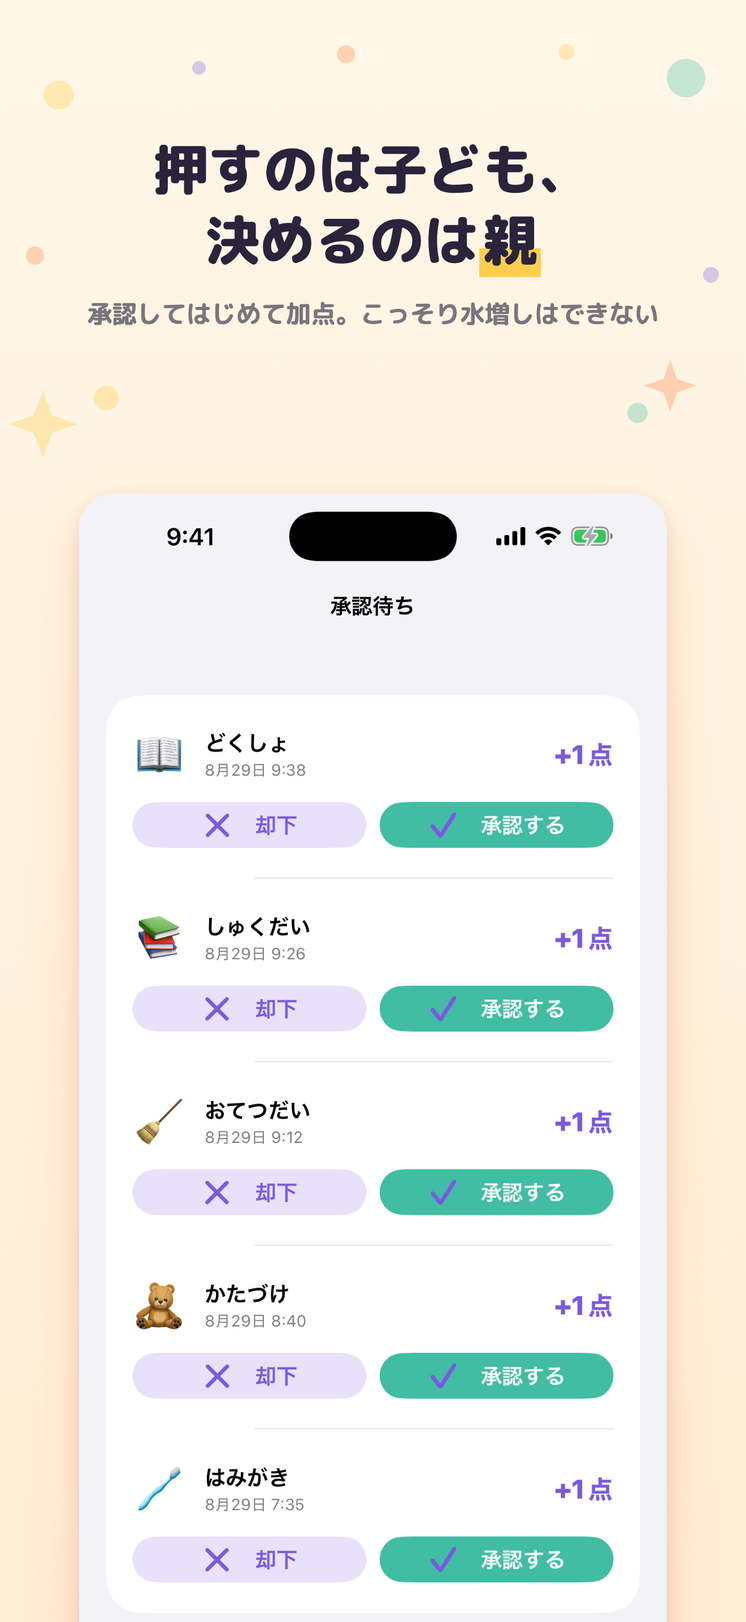
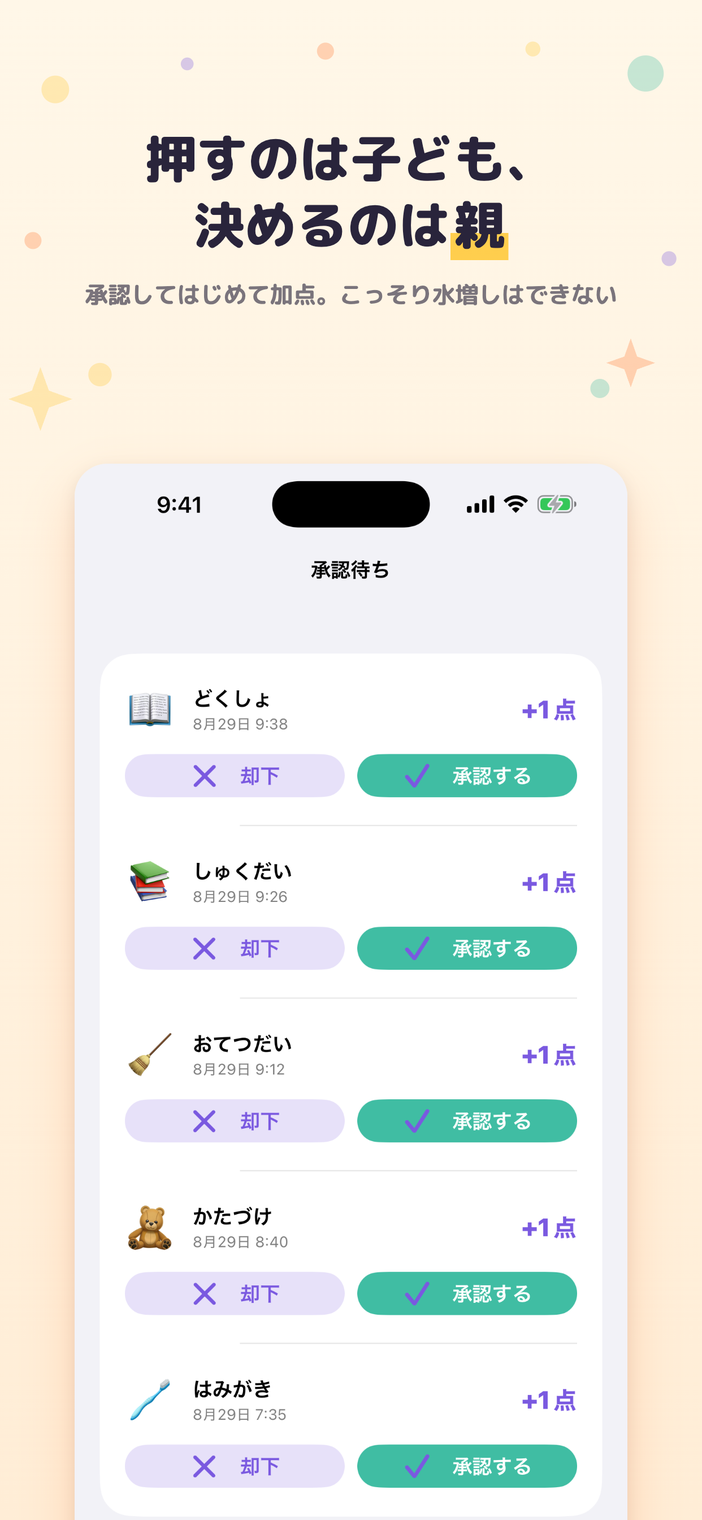
:art: プレビュー画像を1242 × 2688に変更
App Store Connect の iPhone 6.5インチ枠に合わせる。単純な拡大縮小ではなく、
アートボードの寸法を 0.941 倍にしてから元のスクリーンショットで再レンダリング
しているので、文字はぼけていない。左右の余白は1pxもずれないよう、幅を余白から
逆算している。

diff --git a/docs/previews/source/Approval.dc.html b/docs/previews/source/Approval.dc.html
@@ -14,8 +14,8 @@
     a:hover { color: #E0631F; }
   </style>
 </helmet>
-<div style="position: relative; width: 1320px; height: 2868px; overflow: hidden; background: linear-gradient(180deg, #FFF7E8 0%, #FFEDD6 100%); font-family: 'M PLUS Rounded 1c', 'Hiragino Maru Gothic ProN', 'Hiragino Sans', system-ui, sans-serif;">
-  <svg width="1320" height="1120" viewBox="0 0 1320 1120" style="position: absolute; left: 0; top: 0;" aria-hidden="true">
+<div style="position: relative; width: 1242px; height: 2688px; overflow: hidden; background: linear-gradient(180deg, #FFF7E8 0%, #FFEDD6 100%); font-family: 'M PLUS Rounded 1c', 'Hiragino Maru Gothic ProN', 'Hiragino Sans', system-ui, sans-serif;">
+  <svg width="1242" height="1054" viewBox="0 0 1320 1120" style="position: absolute; left: 0; top: 0;" aria-hidden="true">
     <circle cx="104" cy="168" r="26" fill="#FFC733" opacity="0.30" />
     <circle cx="1214" cy="138" r="34" fill="#40BDA3" opacity="0.30" />
     <circle cx="62" cy="452" r="16" fill="#FF7A33" opacity="0.30" />
@@ -29,17 +29,17 @@
     <path d="M 1186 636 l 12 34 34 12 -34 12 -12 34 -12 -34 -34 -12 34 -12 z" fill="#FF7A33" opacity="0.30" />
   </svg>
 
-  <div style="position: absolute; left: 96px; top: 236px; width: 1128px; display: flex; flex-direction: column; gap: 36px; align-items: center; text-align: center;">
-    <h1 style="margin: 0; font-size: 96px; line-height: 1.3; font-weight: 800; letter-spacing: 0.01em; color: #29243B;">押すのは子ども、<br />決めるのは<span style="background: linear-gradient(transparent 62%, rgba(255, 199, 51, 0.85) 62%); padding: 0 6px;">親</span></h1>
-    <p style="margin: 0; font-size: 44px; line-height: 1.5; font-weight: 700; color: rgba(41, 36, 59, 0.62);">承認してはじめて加点。こっそり水増しはできない</p>
+  <div style="position: absolute; left: 90px; top: 222px; width: 1062px; display: flex; flex-direction: column; gap: 34px; align-items: center; text-align: center;">
+    <h1 style="margin: 0; font-size: 90px; line-height: 1.3; font-weight: 800; letter-spacing: 0.01em; color: #29243B;">押すのは子ども、<br />決めるのは<span style="background: linear-gradient(transparent 62%, rgba(255, 199, 51, 0.85) 62%); padding: 0 6px;">親</span></h1>
+    <p style="margin: 0; font-size: 41px; line-height: 1.5; font-weight: 700; color: rgba(41, 36, 59, 0.62);">承認してはじめて加点。こっそり水増しはできない</p>
   </div>
 
-  <div style="position: absolute; left: 140px; top: 872px; width: 1040px; height: 2260px; border-radius: 62px; overflow: hidden; box-shadow: 0 44px 90px rgba(255, 122, 51, 0.24), 0 10px 26px rgba(41, 36, 59, 0.10);">
+  <div style="position: absolute; left: 132px; top: 820px; width: 978px; height: 2125px; border-radius: 58px; overflow: hidden; box-shadow: 0 44px 90px rgba(255, 122, 51, 0.24), 0 10px 26px rgba(41, 36, 59, 0.10);">
     <img src="03-approval.jpg" alt="" style="display: block; width: 100%; height: 100%; object-fit: cover;" />
   </div>
 </div>
 </x-dc>
-<script data-dc-script data-props='{"$preview":{"width":1320,"height":2868}}'>
+<script data-dc-script data-props='{"$preview":{"width":1242,"height":2688}}'>
 class Component extends DCLogic {}
 </script>
 </body>

diff --git a/docs/previews/source/Main.dc.html b/docs/previews/source/Main.dc.html
@@ -14,8 +14,8 @@
     a:hover { color: #E0631F; }
   </style>
 </helmet>
-<div style="position: relative; width: 1320px; height: 2868px; overflow: hidden; background: linear-gradient(180deg, #FFF7E8 0%, #FFEDD6 100%); font-family: 'M PLUS Rounded 1c', 'Hiragino Maru Gothic ProN', 'Hiragino Sans', system-ui, sans-serif;">
-  <svg width="1320" height="1120" viewBox="0 0 1320 1120" style="position: absolute; left: 0; top: 0;" aria-hidden="true">
+<div style="position: relative; width: 1242px; height: 2688px; overflow: hidden; background: linear-gradient(180deg, #FFF7E8 0%, #FFEDD6 100%); font-family: 'M PLUS Rounded 1c', 'Hiragino Maru Gothic ProN', 'Hiragino Sans', system-ui, sans-serif;">
+  <svg width="1242" height="1054" viewBox="0 0 1320 1120" style="position: absolute; left: 0; top: 0;" aria-hidden="true">
     <circle cx="104" cy="168" r="26" fill="#FFC733" opacity="0.30" />
     <circle cx="1214" cy="138" r="34" fill="#40BDA3" opacity="0.30" />
     <circle cx="62" cy="452" r="16" fill="#FF7A33" opacity="0.30" />
@@ -29,17 +29,17 @@
     <path d="M 1186 636 l 12 34 34 12 -34 12 -12 34 -12 -34 -34 -12 34 -12 z" fill="#FF7A33" opacity="0.30" />
   </svg>
 
-  <div style="position: absolute; left: 96px; top: 236px; width: 1128px; display: flex; flex-direction: column; gap: 36px; align-items: center; text-align: center;">
-    <h1 style="margin: 0; font-size: 96px; line-height: 1.3; font-weight: 800; letter-spacing: 0.01em; color: #29243B;"><span style="background: linear-gradient(transparent 62%, rgba(255, 199, 51, 0.85) 62%); padding: 0 6px;">「あと2てん！」</span>が<br />子どものやる気に</h1>
-    <p style="margin: 0; font-size: 44px; line-height: 1.5; font-weight: 700; color: rgba(41, 36, 59, 0.62);">できたらポイント、たまったらごほうび</p>
+  <div style="position: absolute; left: 90px; top: 222px; width: 1062px; display: flex; flex-direction: column; gap: 34px; align-items: center; text-align: center;">
+    <h1 style="margin: 0; font-size: 90px; line-height: 1.3; font-weight: 800; letter-spacing: 0.01em; color: #29243B;"><span style="background: linear-gradient(transparent 62%, rgba(255, 199, 51, 0.85) 62%); padding: 0 6px;">「あと2てん！」</span>が<br />子どものやる気に</h1>
+    <p style="margin: 0; font-size: 41px; line-height: 1.5; font-weight: 700; color: rgba(41, 36, 59, 0.62);">できたらポイント、たまったらごほうび</p>
   </div>
 
-  <div style="position: absolute; left: 140px; top: 872px; width: 1040px; height: 2260px; border-radius: 62px; overflow: hidden; box-shadow: 0 44px 90px rgba(255, 122, 51, 0.24), 0 10px 26px rgba(41, 36, 59, 0.10);">
+  <div style="position: absolute; left: 132px; top: 820px; width: 978px; height: 2125px; border-radius: 58px; overflow: hidden; box-shadow: 0 44px 90px rgba(255, 122, 51, 0.24), 0 10px 26px rgba(41, 36, 59, 0.10);">
     <img src="01-home.jpg" alt="" style="display: block; width: 100%; height: 100%; object-fit: cover;" />
   </div>
 </div>
 </x-dc>
-<script data-dc-script data-props='{"$preview":{"width":1320,"height":2868}}'>
+<script data-dc-script data-props='{"$preview":{"width":1242,"height":2688}}'>
 class Component extends DCLogic {}
 </script>
 </body>

diff --git a/docs/previews/source/ParentMode.dc.html b/docs/previews/source/ParentMode.dc.html
@@ -14,8 +14,8 @@
     a:hover { color: #E0631F; }
   </style>
 </helmet>
-<div style="position: relative; width: 1320px; height: 2868px; overflow: hidden; background: linear-gradient(180deg, #FFF7E8 0%, #FFEDD6 100%); font-family: 'M PLUS Rounded 1c', 'Hiragino Maru Gothic ProN', 'Hiragino Sans', system-ui, sans-serif;">
-  <svg width="1320" height="1120" viewBox="0 0 1320 1120" style="position: absolute; left: 0; top: 0;" aria-hidden="true">
+<div style="position: relative; width: 1242px; height: 2688px; overflow: hidden; background: linear-gradient(180deg, #FFF7E8 0%, #FFEDD6 100%); font-family: 'M PLUS Rounded 1c', 'Hiragino Maru Gothic ProN', 'Hiragino Sans', system-ui, sans-serif;">
+  <svg width="1242" height="1054" viewBox="0 0 1320 1120" style="position: absolute; left: 0; top: 0;" aria-hidden="true">
     <circle cx="104" cy="168" r="26" fill="#FFC733" opacity="0.30" />
     <circle cx="1214" cy="138" r="34" fill="#40BDA3" opacity="0.30" />
     <circle cx="62" cy="452" r="16" fill="#FF7A33" opacity="0.30" />
@@ -29,17 +29,17 @@
     <path d="M 1186 636 l 12 34 34 12 -34 12 -12 34 -12 -34 -34 -12 34 -12 z" fill="#FF7A33" opacity="0.30" />
   </svg>
 
-  <div style="position: absolute; left: 96px; top: 236px; width: 1128px; display: flex; flex-direction: column; gap: 36px; align-items: center; text-align: center;">
-    <h1 style="margin: 0; font-size: 96px; line-height: 1.3; font-weight: 800; letter-spacing: 0.01em; color: #29243B;">親モードは<br /><span style="background: linear-gradient(transparent 62%, rgba(255, 199, 51, 0.85) 62%); padding: 0 6px;">Face IDでロック</span></h1>
-    <p style="margin: 0; font-size: 44px; line-height: 1.5; font-weight: 700; color: rgba(41, 36, 59, 0.62);">ポイントも設定も、子どもだけでは変えられない</p>
+  <div style="position: absolute; left: 90px; top: 222px; width: 1062px; display: flex; flex-direction: column; gap: 34px; align-items: center; text-align: center;">
+    <h1 style="margin: 0; font-size: 90px; line-height: 1.3; font-weight: 800; letter-spacing: 0.01em; color: #29243B;">親モードは<br /><span style="background: linear-gradient(transparent 62%, rgba(255, 199, 51, 0.85) 62%); padding: 0 6px;">Face IDでロック</span></h1>
+    <p style="margin: 0; font-size: 41px; line-height: 1.5; font-weight: 700; color: rgba(41, 36, 59, 0.62);">ポイントも設定も、子どもだけでは変えられない</p>
   </div>
 
-  <div style="position: absolute; left: 140px; top: 872px; width: 1040px; height: 2260px; border-radius: 62px; overflow: hidden; box-shadow: 0 44px 90px rgba(255, 122, 51, 0.24), 0 10px 26px rgba(41, 36, 59, 0.10);">
+  <div style="position: absolute; left: 132px; top: 820px; width: 978px; height: 2125px; border-radius: 58px; overflow: hidden; box-shadow: 0 44px 90px rgba(255, 122, 51, 0.24), 0 10px 26px rgba(41, 36, 59, 0.10);">
     <img src="08-parent.jpg" alt="" style="display: block; width: 100%; height: 100%; object-fit: cover;" />
   </div>
 </div>
 </x-dc>
-<script data-dc-script data-props='{"$preview":{"width":1320,"height":2868}}'>
+<script data-dc-script data-props='{"$preview":{"width":1242,"height":2688}}'>
 class Component extends DCLogic {}
 </script>
 </body>

diff --git a/docs/previews/source/Timer.dc.html b/docs/previews/source/Timer.dc.html
@@ -14,8 +14,8 @@
     a:hover { color: #E0631F; }
   </style>
 </helmet>
-<div style="position: relative; width: 1320px; height: 2868px; overflow: hidden; background: linear-gradient(180deg, #FFF7E8 0%, #FFEDD6 100%); font-family: 'M PLUS Rounded 1c', 'Hiragino Maru Gothic ProN', 'Hiragino Sans', system-ui, sans-serif;">
-  <svg width="1320" height="1120" viewBox="0 0 1320 1120" style="position: absolute; left: 0; top: 0;" aria-hidden="true">
+<div style="position: relative; width: 1242px; height: 2688px; overflow: hidden; background: linear-gradient(180deg, #FFF7E8 0%, #FFEDD6 100%); font-family: 'M PLUS Rounded 1c', 'Hiragino Maru Gothic ProN', 'Hiragino Sans', system-ui, sans-serif;">
+  <svg width="1242" height="1054" viewBox="0 0 1320 1120" style="position: absolute; left: 0; top: 0;" aria-hidden="true">
     <circle cx="104" cy="168" r="26" fill="#FFC733" opacity="0.30" />
     <circle cx="1214" cy="138" r="34" fill="#40BDA3" opacity="0.30" />
     <circle cx="62" cy="452" r="16" fill="#FF7A33" opacity="0.30" />
@@ -29,17 +29,17 @@
     <path d="M 1186 636 l 12 34 34 12 -34 12 -12 34 -12 -34 -34 -12 34 -12 z" fill="#FF7A33" opacity="0.30" />
   </svg>
 
-  <div style="position: absolute; left: 96px; top: 236px; width: 1128px; display: flex; flex-direction: column; gap: 36px; align-items: center; text-align: center;">
-    <h1 style="margin: 0; font-size: 96px; line-height: 1.3; font-weight: 800; letter-spacing: 0.01em; color: #29243B;"><span style="background: linear-gradient(transparent 62%, rgba(255, 199, 51, 0.85) 62%); padding: 0 6px;">「30ぷん」</span>は<br />アプリが計る</h1>
-    <p style="margin: 0; font-size: 44px; line-height: 1.5; font-weight: 700; color: rgba(41, 36, 59, 0.62);">終わりが見えるから、もうおしまいでもめない</p>
+  <div style="position: absolute; left: 90px; top: 222px; width: 1062px; display: flex; flex-direction: column; gap: 34px; align-items: center; text-align: center;">
+    <h1 style="margin: 0; font-size: 90px; line-height: 1.3; font-weight: 800; letter-spacing: 0.01em; color: #29243B;"><span style="background: linear-gradient(transparent 62%, rgba(255, 199, 51, 0.85) 62%); padding: 0 6px;">「30ぷん」</span>は<br />アプリが計る</h1>
+    <p style="margin: 0; font-size: 41px; line-height: 1.5; font-weight: 700; color: rgba(41, 36, 59, 0.62);">終わりが見えるから、もうおしまいでもめない</p>
   </div>
 
-  <div style="position: absolute; left: 140px; top: 872px; width: 1040px; height: 2260px; border-radius: 62px; overflow: hidden; box-shadow: 0 44px 90px rgba(255, 122, 51, 0.24), 0 10px 26px rgba(41, 36, 59, 0.10);">
+  <div style="position: absolute; left: 132px; top: 820px; width: 978px; height: 2125px; border-radius: 58px; overflow: hidden; box-shadow: 0 44px 90px rgba(255, 122, 51, 0.24), 0 10px 26px rgba(41, 36, 59, 0.10);">
     <img src="05-timer.jpg" alt="" style="display: block; width: 100%; height: 100%; object-fit: cover;" />
   </div>
 </div>
 </x-dc>
-<script data-dc-script data-props='{"$preview":{"width":1320,"height":2868}}'>
+<script data-dc-script data-props='{"$preview":{"width":1242,"height":2688}}'>
 class Component extends DCLogic {}
 </script>
 </body>

diff --git a/docs/previews/source/Tasks.dc.html b/docs/previews/source/Tasks.dc.html
@@ -14,8 +14,8 @@
     a:hover { color: #E0631F; }
   </style>
 </helmet>
-<div style="position: relative; width: 1320px; height: 2868px; overflow: hidden; background: linear-gradient(180deg, #FFF7E8 0%, #FFEDD6 100%); font-family: 'M PLUS Rounded 1c', 'Hiragino Maru Gothic ProN', 'Hiragino Sans', system-ui, sans-serif;">
-  <svg width="1320" height="1120" viewBox="0 0 1320 1120" style="position: absolute; left: 0; top: 0;" aria-hidden="true">
+<div style="position: relative; width: 1242px; height: 2688px; overflow: hidden; background: linear-gradient(180deg, #FFF7E8 0%, #FFEDD6 100%); font-family: 'M PLUS Rounded 1c', 'Hiragino Maru Gothic ProN', 'Hiragino Sans', system-ui, sans-serif;">
+  <svg width="1242" height="1054" viewBox="0 0 1320 1120" style="position: absolute; left: 0; top: 0;" aria-hidden="true">
     <circle cx="104" cy="168" r="26" fill="#FFC733" opacity="0.30" />
     <circle cx="1214" cy="138" r="34" fill="#40BDA3" opacity="0.30" />
     <circle cx="62" cy="452" r="16" fill="#FF7A33" opacity="0.30" />
@@ -29,17 +29,17 @@
     <path d="M 1186 636 l 12 34 34 12 -34 12 -12 34 -12 -34 -34 -12 34 -12 z" fill="#FF7A33" opacity="0.30" />
   </svg>
 
-  <div style="position: absolute; left: 96px; top: 236px; width: 1128px; display: flex; flex-direction: column; gap: 36px; align-items: center; text-align: center;">
-    <h1 style="margin: 0; font-size: 96px; line-height: 1.3; font-weight: 800; letter-spacing: 0.01em; color: #29243B;">家庭のルールに<br /><span style="background: linear-gradient(transparent 62%, rgba(255, 199, 51, 0.85) 62%); padding: 0 6px;">合わせて設定</span></h1>
-    <p style="margin: 0; font-size: 44px; line-height: 1.5; font-weight: 700; color: rgba(41, 36, 59, 0.62);">曜日・回数・表示するやることを自由に</p>
+  <div style="position: absolute; left: 90px; top: 222px; width: 1062px; display: flex; flex-direction: column; gap: 34px; align-items: center; text-align: center;">
+    <h1 style="margin: 0; font-size: 90px; line-height: 1.3; font-weight: 800; letter-spacing: 0.01em; color: #29243B;">家庭のルールに<br /><span style="background: linear-gradient(transparent 62%, rgba(255, 199, 51, 0.85) 62%); padding: 0 6px;">合わせて設定</span></h1>
+    <p style="margin: 0; font-size: 41px; line-height: 1.5; font-weight: 700; color: rgba(41, 36, 59, 0.62);">曜日・回数・表示するやることを自由に</p>
   </div>
 
-  <div style="position: absolute; left: 140px; top: 872px; width: 1040px; height: 2260px; border-radius: 62px; overflow: hidden; box-shadow: 0 44px 90px rgba(255, 122, 51, 0.24), 0 10px 26px rgba(41, 36, 59, 0.10);">
+  <div style="position: absolute; left: 132px; top: 820px; width: 978px; height: 2125px; border-radius: 58px; overflow: hidden; box-shadow: 0 44px 90px rgba(255, 122, 51, 0.24), 0 10px 26px rgba(41, 36, 59, 0.10);">
     <img src="04-tasks.jpg" alt="" style="display: block; width: 100%; height: 100%; object-fit: cover;" />
   </div>
 </div>
 </x-dc>
-<script data-dc-script data-props='{"$preview":{"width":1320,"height":2868}}'>
+<script data-dc-script data-props='{"$preview":{"width":1242,"height":2688}}'>
 class Component extends DCLogic {}
 </script>
 </body>

diff --git a/docs/previews/source/History.dc.html b/docs/previews/source/History.dc.html
@@ -14,8 +14,8 @@
     a:hover { color: #E0631F; }
   </style>
 </helmet>
-<div style="position: relative; width: 1320px; height: 2868px; overflow: hidden; background: linear-gradient(180deg, #FFF7E8 0%, #FFEDD6 100%); font-family: 'M PLUS Rounded 1c', 'Hiragino Maru Gothic ProN', 'Hiragino Sans', system-ui, sans-serif;">
-  <svg width="1320" height="1120" viewBox="0 0 1320 1120" style="position: absolute; left: 0; top: 0;" aria-hidden="true">
+<div style="position: relative; width: 1242px; height: 2688px; overflow: hidden; background: linear-gradient(180deg, #FFF7E8 0%, #FFEDD6 100%); font-family: 'M PLUS Rounded 1c', 'Hiragino Maru Gothic ProN', 'Hiragino Sans', system-ui, sans-serif;">
+  <svg width="1242" height="1054" viewBox="0 0 1320 1120" style="position: absolute; left: 0; top: 0;" aria-hidden="true">
     <circle cx="104" cy="168" r="26" fill="#FFC733" opacity="0.30" />
     <circle cx="1214" cy="138" r="34" fill="#40BDA3" opacity="0.30" />
     <circle cx="62" cy="452" r="16" fill="#FF7A33" opacity="0.30" />
@@ -29,17 +29,17 @@
     <path d="M 1186 636 l 12 34 34 12 -34 12 -12 34 -12 -34 -34 -12 34 -12 z" fill="#FF7A33" opacity="0.30" />
   </svg>
 
-  <div style="position: absolute; left: 96px; top: 236px; width: 1128px; display: flex; flex-direction: column; gap: 36px; align-items: center; text-align: center;">
-    <h1 style="margin: 0; font-size: 96px; line-height: 1.3; font-weight: 800; letter-spacing: 0.01em; color: #29243B;">がんばりは<br /><span style="background: linear-gradient(transparent 62%, rgba(255, 199, 51, 0.85) 62%); padding: 0 6px;">記録に残る</span></h1>
-    <p style="margin: 0; font-size: 44px; line-height: 1.5; font-weight: 700; color: rgba(41, 36, 59, 0.62);">1週間の達成とポイントを、あとからふり返る</p>
+  <div style="position: absolute; left: 90px; top: 222px; width: 1062px; display: flex; flex-direction: column; gap: 34px; align-items: center; text-align: center;">
+    <h1 style="margin: 0; font-size: 90px; line-height: 1.3; font-weight: 800; letter-spacing: 0.01em; color: #29243B;">がんばりは<br /><span style="background: linear-gradient(transparent 62%, rgba(255, 199, 51, 0.85) 62%); padding: 0 6px;">記録に残る</span></h1>
+    <p style="margin: 0; font-size: 41px; line-height: 1.5; font-weight: 700; color: rgba(41, 36, 59, 0.62);">1週間の達成とポイントを、あとからふり返る</p>
   </div>
 
-  <div style="position: absolute; left: 140px; top: 872px; width: 1040px; height: 2260px; border-radius: 62px; overflow: hidden; box-shadow: 0 44px 90px rgba(255, 122, 51, 0.24), 0 10px 26px rgba(41, 36, 59, 0.10);">
+  <div style="position: absolute; left: 132px; top: 820px; width: 978px; height: 2125px; border-radius: 58px; overflow: hidden; box-shadow: 0 44px 90px rgba(255, 122, 51, 0.24), 0 10px 26px rgba(41, 36, 59, 0.10);">
     <img src="07-history.jpg" alt="" style="display: block; width: 100%; height: 100%; object-fit: cover;" />
   </div>
 </div>
 </x-dc>
-<script data-dc-script data-props='{"$preview":{"width":1320,"height":2868}}'>
+<script data-dc-script data-props='{"$preview":{"width":1242,"height":2688}}'>
 class Component extends DCLogic {}
 </script>
 </body>

diff --git a/docs/previews/source/Siblings.dc.html b/docs/previews/source/Siblings.dc.html
@@ -14,8 +14,8 @@
     a:hover { color: #E0631F; }
   </style>
 </helmet>
-<div style="position: relative; width: 1320px; height: 2868px; overflow: hidden; background: linear-gradient(180deg, #FFF7E8 0%, #FFEDD6 100%); font-family: 'M PLUS Rounded 1c', 'Hiragino Maru Gothic ProN', 'Hiragino Sans', system-ui, sans-serif;">
-  <svg width="1320" height="1120" viewBox="0 0 1320 1120" style="position: absolute; left: 0; top: 0;" aria-hidden="true">
+<div style="position: relative; width: 1242px; height: 2688px; overflow: hidden; background: linear-gradient(180deg, #FFF7E8 0%, #FFEDD6 100%); font-family: 'M PLUS Rounded 1c', 'Hiragino Maru Gothic ProN', 'Hiragino Sans', system-ui, sans-serif;">
+  <svg width="1242" height="1054" viewBox="0 0 1320 1120" style="position: absolute; left: 0; top: 0;" aria-hidden="true">
     <circle cx="104" cy="168" r="26" fill="#FFC733" opacity="0.30" />
     <circle cx="1214" cy="138" r="34" fill="#40BDA3" opacity="0.30" />
     <circle cx="62" cy="452" r="16" fill="#FF7A33" opacity="0.30" />
@@ -29,17 +29,17 @@
     <path d="M 1186 636 l 12 34 34 12 -34 12 -12 34 -12 -34 -34 -12 34 -12 z" fill="#FF7A33" opacity="0.30" />
   </svg>
 
-  <div style="position: absolute; left: 96px; top: 236px; width: 1128px; display: flex; flex-direction: column; gap: 36px; align-items: center; text-align: center;">
-    <h1 style="margin: 0; font-size: 96px; line-height: 1.3; font-weight: 800; letter-spacing: 0.01em; color: #29243B;">きょうだい<br /><span style="background: linear-gradient(transparent 62%, rgba(255, 199, 51, 0.85) 62%); padding: 0 6px;">何人でもOK</span></h1>
-    <p style="margin: 0; font-size: 44px; line-height: 1.5; font-weight: 700; color: rgba(41, 36, 59, 0.62);">名前とアイコンを決めて、タップで切り替え</p>
+  <div style="position: absolute; left: 90px; top: 222px; width: 1062px; display: flex; flex-direction: column; gap: 34px; align-items: center; text-align: center;">
+    <h1 style="margin: 0; font-size: 90px; line-height: 1.3; font-weight: 800; letter-spacing: 0.01em; color: #29243B;">きょうだい<br /><span style="background: linear-gradient(transparent 62%, rgba(255, 199, 51, 0.85) 62%); padding: 0 6px;">何人でもOK</span></h1>
+    <p style="margin: 0; font-size: 41px; line-height: 1.5; font-weight: 700; color: rgba(41, 36, 59, 0.62);">名前とアイコンを決めて、タップで切り替え</p>
   </div>
 
-  <div style="position: absolute; left: 140px; top: 872px; width: 1040px; height: 2260px; border-radius: 62px; overflow: hidden; box-shadow: 0 44px 90px rgba(255, 122, 51, 0.24), 0 10px 26px rgba(41, 36, 59, 0.10);">
+  <div style="position: absolute; left: 132px; top: 820px; width: 978px; height: 2125px; border-radius: 58px; overflow: hidden; box-shadow: 0 44px 90px rgba(255, 122, 51, 0.24), 0 10px 26px rgba(41, 36, 59, 0.10);">
     <img src="06-siblings.jpg" alt="" style="display: block; width: 100%; height: 100%; object-fit: cover;" />
   </div>
 </div>
 </x-dc>
-<script data-dc-script data-props='{"$preview":{"width":1320,"height":2868}}'>
+<script data-dc-script data-props='{"$preview":{"width":1242,"height":2688}}'>
 class Component extends DCLogic {}
 </script>
 </body>

diff --git a/docs/previews/source/Achievement.dc.html b/docs/previews/source/Achievement.dc.html
@@ -14,8 +14,8 @@
     a:hover { color: #E0631F; }
   </style>
 </helmet>
-<div style="position: relative; width: 1320px; height: 2868px; overflow: hidden; background: linear-gradient(150deg, #7A59E0 0%, #572EA8 100%); font-family: 'M PLUS Rounded 1c', 'Hiragino Maru Gothic ProN', 'Hiragino Sans', system-ui, sans-serif;">
-  <svg width="1320" height="1120" viewBox="0 0 1320 1120" style="position: absolute; left: 0; top: 0;" aria-hidden="true">
+<div style="position: relative; width: 1242px; height: 2688px; overflow: hidden; background: linear-gradient(150deg, #7A59E0 0%, #572EA8 100%); font-family: 'M PLUS Rounded 1c', 'Hiragino Maru Gothic ProN', 'Hiragino Sans', system-ui, sans-serif;">
+  <svg width="1242" height="1054" viewBox="0 0 1320 1120" style="position: absolute; left: 0; top: 0;" aria-hidden="true">
     <circle cx="104" cy="168" r="26" fill="#FFC733" opacity="0.72" />
     <circle cx="1214" cy="138" r="34" fill="#FFFFFF" opacity="0.72" />
     <circle cx="62" cy="452" r="16" fill="#5FE0C6" opacity="0.72" />
@@ -29,17 +29,17 @@
     <path d="M 1186 636 l 12 34 34 12 -34 12 -12 34 -12 -34 -34 -12 34 -12 z" fill="#5FE0C6" opacity="0.72" />
   </svg>
 
-  <div style="position: absolute; left: 96px; top: 236px; width: 1128px; display: flex; flex-direction: column; gap: 36px; align-items: center; text-align: center;">
-    <h1 style="margin: 0; font-size: 96px; line-height: 1.3; font-weight: 800; letter-spacing: 0.01em; color: #FFFFFF;">たまったら、<br /><span style="color: #FFC733;">ごほうびゲット</span></h1>
-    <p style="margin: 0; font-size: 44px; line-height: 1.5; font-weight: 700; color: rgba(255, 255, 255, 0.78);">目標に届いた瞬間を、おおげさにお祝い</p>
+  <div style="position: absolute; left: 90px; top: 222px; width: 1062px; display: flex; flex-direction: column; gap: 34px; align-items: center; text-align: center;">
+    <h1 style="margin: 0; font-size: 90px; line-height: 1.3; font-weight: 800; letter-spacing: 0.01em; color: #FFFFFF;">たまったら、<br /><span style="color: #FFC733;">ごほうびゲット</span></h1>
+    <p style="margin: 0; font-size: 41px; line-height: 1.5; font-weight: 700; color: rgba(255, 255, 255, 0.78);">目標に届いた瞬間を、おおげさにお祝い</p>
   </div>
 
-  <div style="position: absolute; left: 140px; top: 872px; width: 1040px; height: 2260px; border-radius: 62px; overflow: hidden; box-shadow: 0 0 0 2px rgba(255, 255, 255, 0.16), 0 44px 90px rgba(24, 8, 60, 0.50), 0 10px 26px rgba(24, 8, 60, 0.35);">
+  <div style="position: absolute; left: 132px; top: 820px; width: 978px; height: 2125px; border-radius: 58px; overflow: hidden; box-shadow: 0 0 0 2px rgba(255, 255, 255, 0.16), 0 44px 90px rgba(24, 8, 60, 0.50), 0 10px 26px rgba(24, 8, 60, 0.35);">
     <img src="02-achievement.jpg" alt="" style="display: block; width: 100%; height: 100%; object-fit: cover;" />
   </div>
 </div>
 </x-dc>
-<script data-dc-script data-props='{"$preview":{"width":1320,"height":2868}}'>
+<script data-dc-script data-props='{"$preview":{"width":1242,"height":2688}}'>
 class Component extends DCLogic {}
 </script>
 </body>

diff --git a/docs/previews/build.py b/docs/previews/build.py
@@ -3,7 +3,7 @@
 
 source/*.dc.html（Claude Design のアートボード）を読み、埋め込み用の圧縮画像を
 docs/screenshots/ のフル解像度 PNG に差し替えた renders.html を作る。
-あとはブラウザで 1320 × 2868 の要素ごとにスクリーンショットを撮れば提出用の画像になる。
+あとはブラウザで 1242 × 2688 の要素ごとにスクリーンショットを撮れば提出用の画像になる。
 
     python3 docs/previews/build.py
     (cd docs/previews && python3 -m http.server 8731)
@@ -40,7 +40,7 @@ page = """<!doctype html>
 <link rel="stylesheet" href="https://fonts.googleapis.com/css2?family=M+PLUS+Rounded+1c:wght@700;800&display=swap">
 <style>
   html, body { margin: 0; padding: 0; background: #fff; }
-  section { display: block; width: 1320px; height: 2868px; overflow: hidden; }
+  section { display: block; width: 1242px; height: 2688px; overflow: hidden; }
 </style>
 </head>
 <body>

diff --git a/docs/previews/README.md b/docs/previews/README.md
@@ -1,7 +1,8 @@
 # App Store 用プレビュー画像
 
 `docs/screenshots/` の素のスクリーンショットに、キャッチコピーと背景を入れた提出用の画像。
-1320 × 2868 px（iPhone 6.9インチ）で、App Store Connect にそのまま入る。
+1242 × 2688 px（iPhone 6.5インチ）で、App Store Connect にそのまま入る。
+アートボードは 1320 幅で設計し、出力時に 0.941 倍で組み直している（`source/` の値は縮小後）。
 
 | ファイル | コピー |
 | --- | --- |
@@ -36,5 +37,5 @@ cd docs/previews && python3 -m http.server 8731
 ```
 
 `http://127.0.0.1:8731/renders.html` を開き、`#s1`〜`#s8` の各 `<section>` を**等倍（1x）**で
-要素キャプチャすると 1320 × 2868 の PNG になる。ページ全体ではなく要素ごとに撮ること。
+要素キャプチャすると 1242 × 2688 の PNG になる。ページ全体ではなく要素ごとに撮ること。
 スクリーンショット自体を撮り直す手順は [../screenshots/README.md](../screenshots/README.md)。
